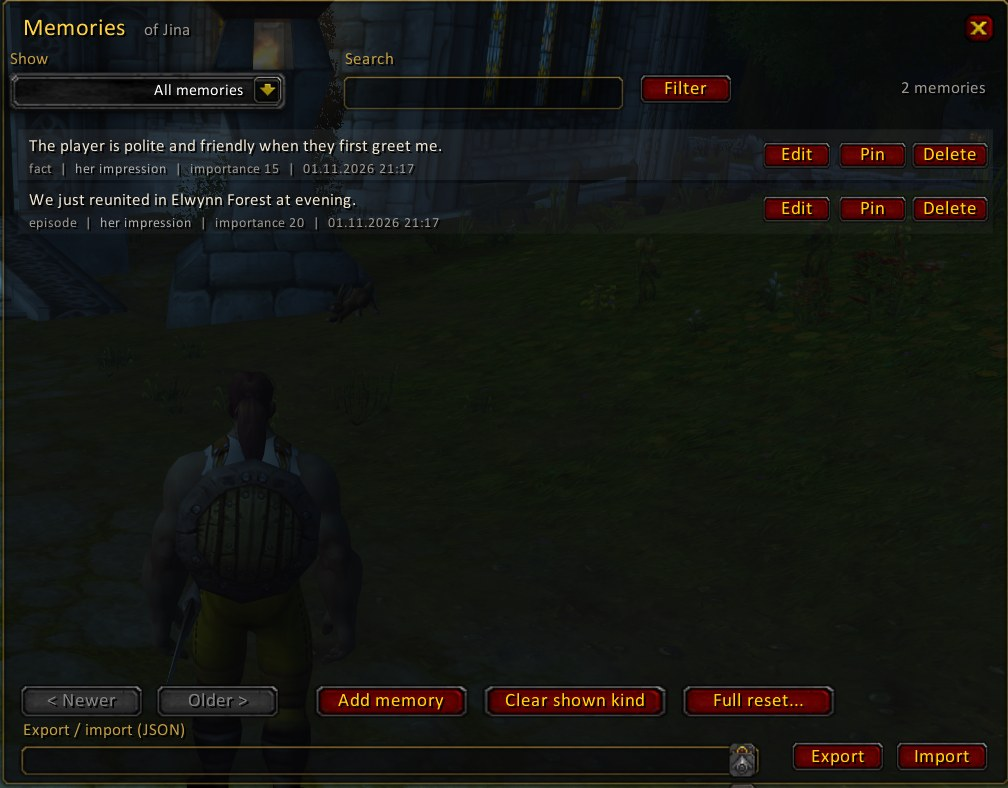
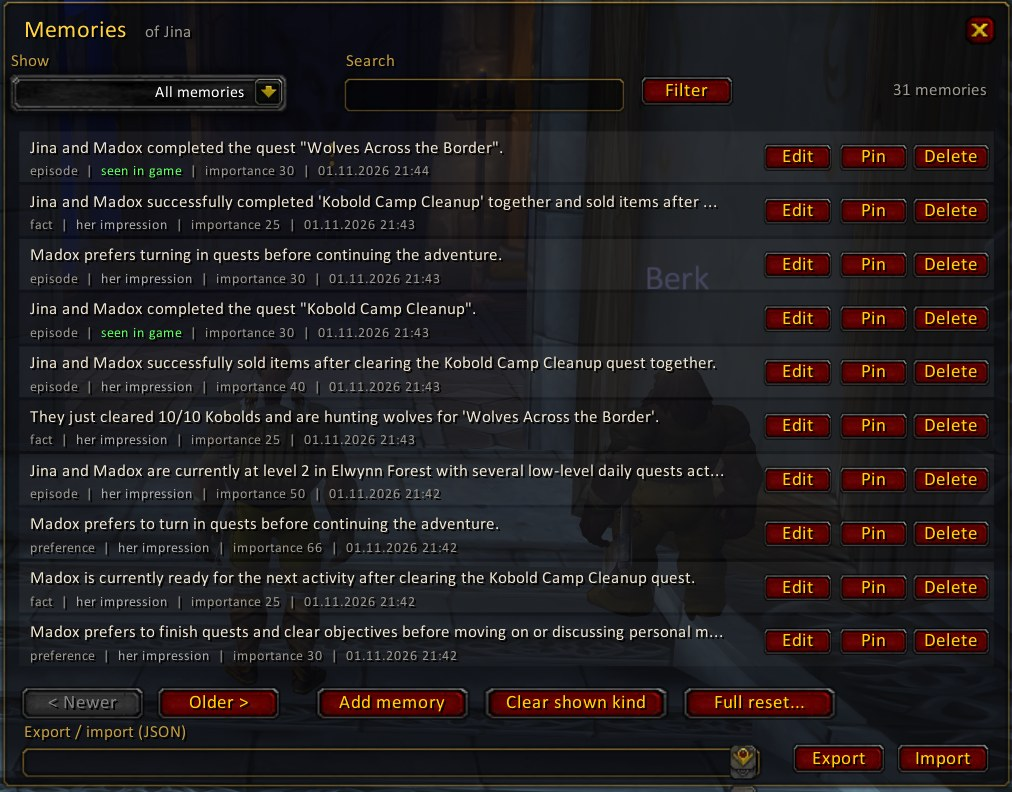
README: memory viewer with real memories

diff --git a/README.md b/README.md
@@ -19,6 +19,8 @@ World of Warcraft **3.3.5a** addon (Interface 30300) for the AzerothCore module 
 | ![Relationship](docs/images/relationship.jpg) | ![Settings](docs/images/settings.jpg) |
 | **Relationship** values and stages | **Settings** per companion |
 
+**Memories**: everything she remembers, with source and importance. Edit, pin, delete, add, export or import.
+
 ![Memory viewer](docs/images/memories.jpg)
 
 ## Features
